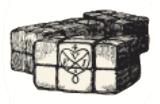
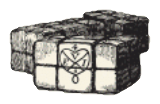
Rules and Content update

diff --git a/astro/src/assets/styles/cards.css b/astro/src/assets/styles/cards.css
@@ -65,7 +65,7 @@
       padding: 0.25em 0;
     }
     h2.shortTitle {
-      padding: 0.75em 0;
+      padding: 0.75em 0 0.25em;
     }
     h2.shortTitle:has(+ .duty) {
       padding: 0.35em 0;
@@ -322,6 +322,7 @@
   }
 
   .office-cardback {
+    color: black;
     position: relative;
     height: 100%;
     width: 100%;
@@ -355,6 +356,7 @@
   }
 
   .scenario-card {
+    color: black;
     position: relative;
 
     .main-text {

diff --git a/astro/src/assets/styles/custom.css b/astro/src/assets/styles/custom.css
@@ -77,6 +77,7 @@
 .sl-markdown-content :is(h2, h4, h6):not(:where(.not-content *)) {
   font-family: 'Baskervville SC Variable';
   font-weight: 500;
+  font-variant-numeric: lining-nums;
 }
 
 .sl-markdown-content {
@@ -178,6 +179,7 @@ section.footnotes > div.sl-heading-wrapper {
   }
 
   .bonus:not(:where(.not-content *)) {
+    color: black;
     background-color: var(--bg-bonus);
     align-items: center;
     padding: 0.5em;